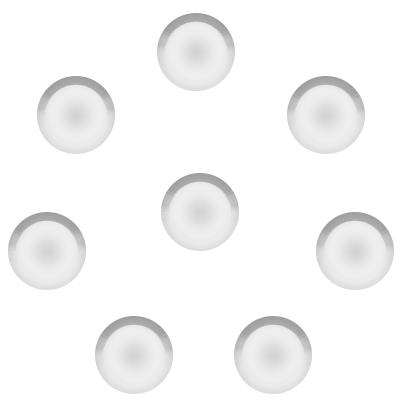
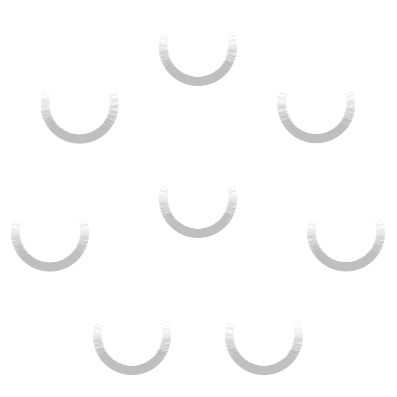
dial indicator

diff --git a/styles.css b/styles.css
@@ -89,8 +89,8 @@ canvas {
 }
 
 #menu-toggle {
-  height: 2rem;
-  width: 2rem;
+  height: 3rem;
+  width: 3rem;
   background-color: transparent;
   background-image: url("./images/dots.png");
   background-size: cover;
@@ -98,7 +98,7 @@ canvas {
   z-index: 500;
   position: absolute;
   bottom: 2rem;
-  left: calc(50% - 1rem);
+  left: calc(50% - 1.5rem);
   transform: rotate(0deg);
   transition: 0.5s transform ease-in-out;
 }
@@ -138,6 +138,8 @@ canvas {
   -ms-transform: translateY(-50%);
   transform: translateY(-50%);
   margin: 0 auto;
+  background-image: url("./images/dial.png");
+  background-size: cover;
 }
 #radial-ui button {
   height: 20%;
@@ -155,8 +157,9 @@ canvas {
 }
 #radial-ui .play-wrapper {
   position: absolute;
-  height: calc(100%);
-  left: 40%;
+  height: calc(100% - 5rem);
+  left: calc(40% + 0.5rem);
+  top: 2rem;
 }
 #radial-ui #play-1 {
   background-image: url("./images/button-1.png");

diff --git a/styles.scss b/styles.scss
@@ -89,8 +89,8 @@
   }
 
   #menu-toggle {
-    height: 2rem;
-    width: 2rem;
+    height: 3rem;
+    width: 3rem;
     background-color: transparent;
     background-image: url('./images/dots.png');
     background-size: cover;
@@ -98,7 +98,7 @@
     z-index: 500;
     position: absolute;
     bottom: 2rem;
-    left: calc(50% - 1rem);
+    left: calc(50% - 1.5rem);
     transform: rotate(0deg);
     transition: .5s transform ease-in-out;
     &:hover {
@@ -142,7 +142,8 @@
     -ms-transform: translateY(-50%);
     transform: translateY(-50%);
     margin: 0 auto;
-
+    background-image: url('./images/dial.png');
+    background-size:cover;
 
 
     button {
@@ -161,9 +162,9 @@
       }
       .play-wrapper {
         position: absolute;
-        height: calc(100%);
-
-        left: 40%;
+        height: calc(100% - 5rem);
+        left: calc(40% + 0.5rem);
+        top: 2rem;
         }  
         
     #play-1 {
